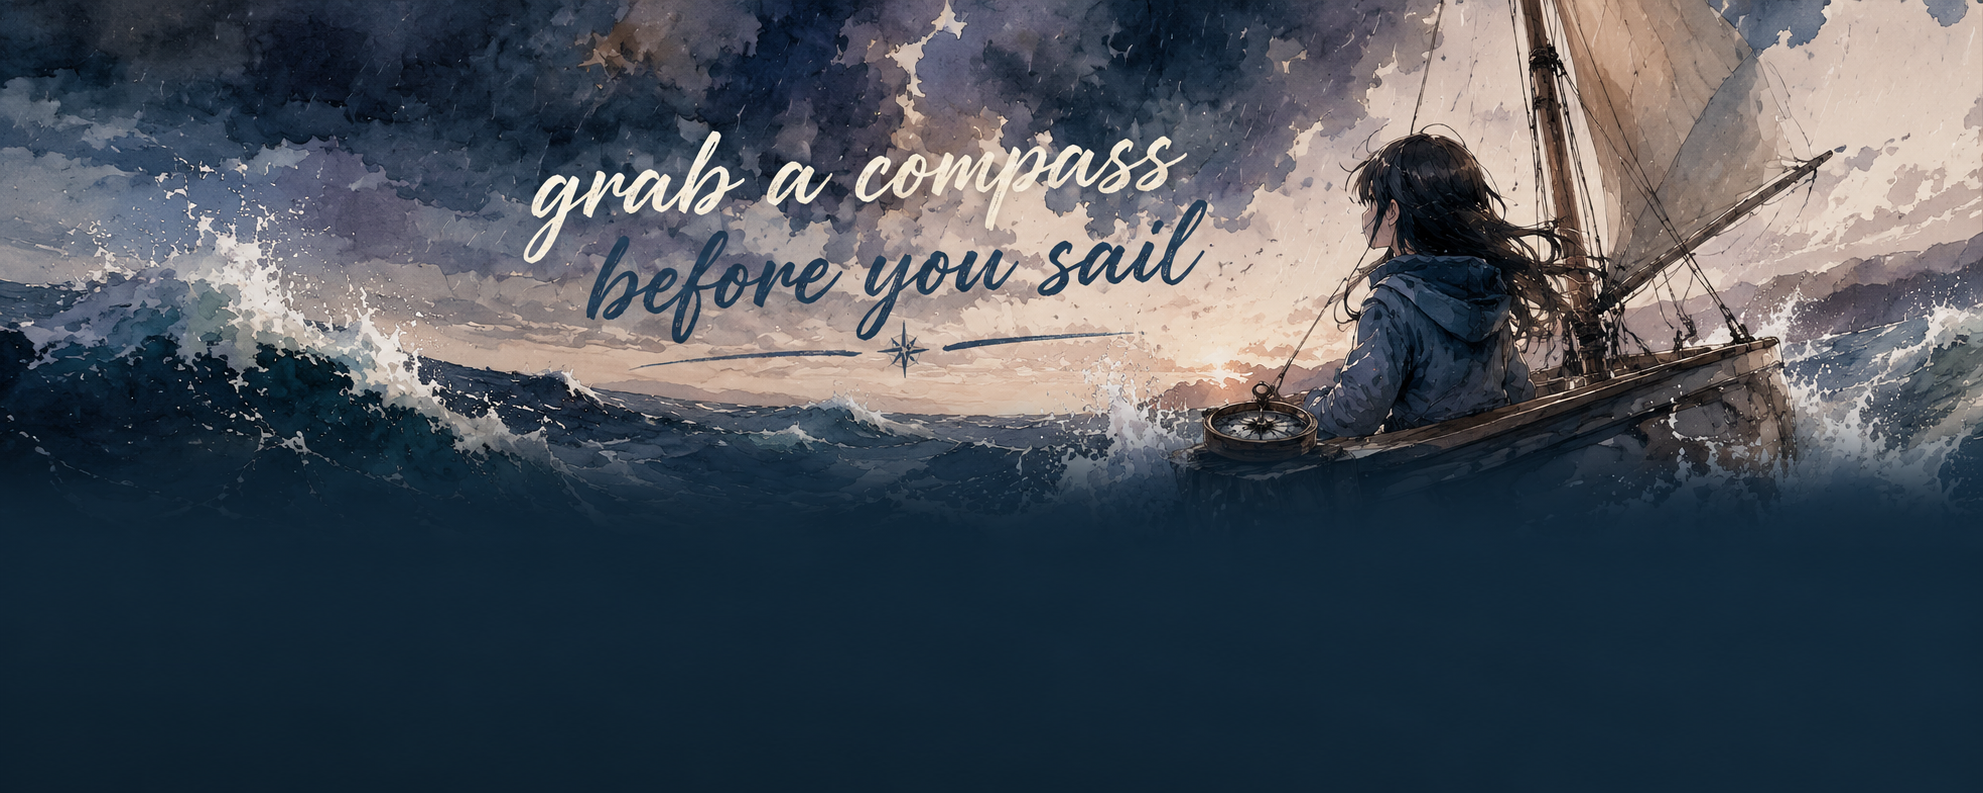
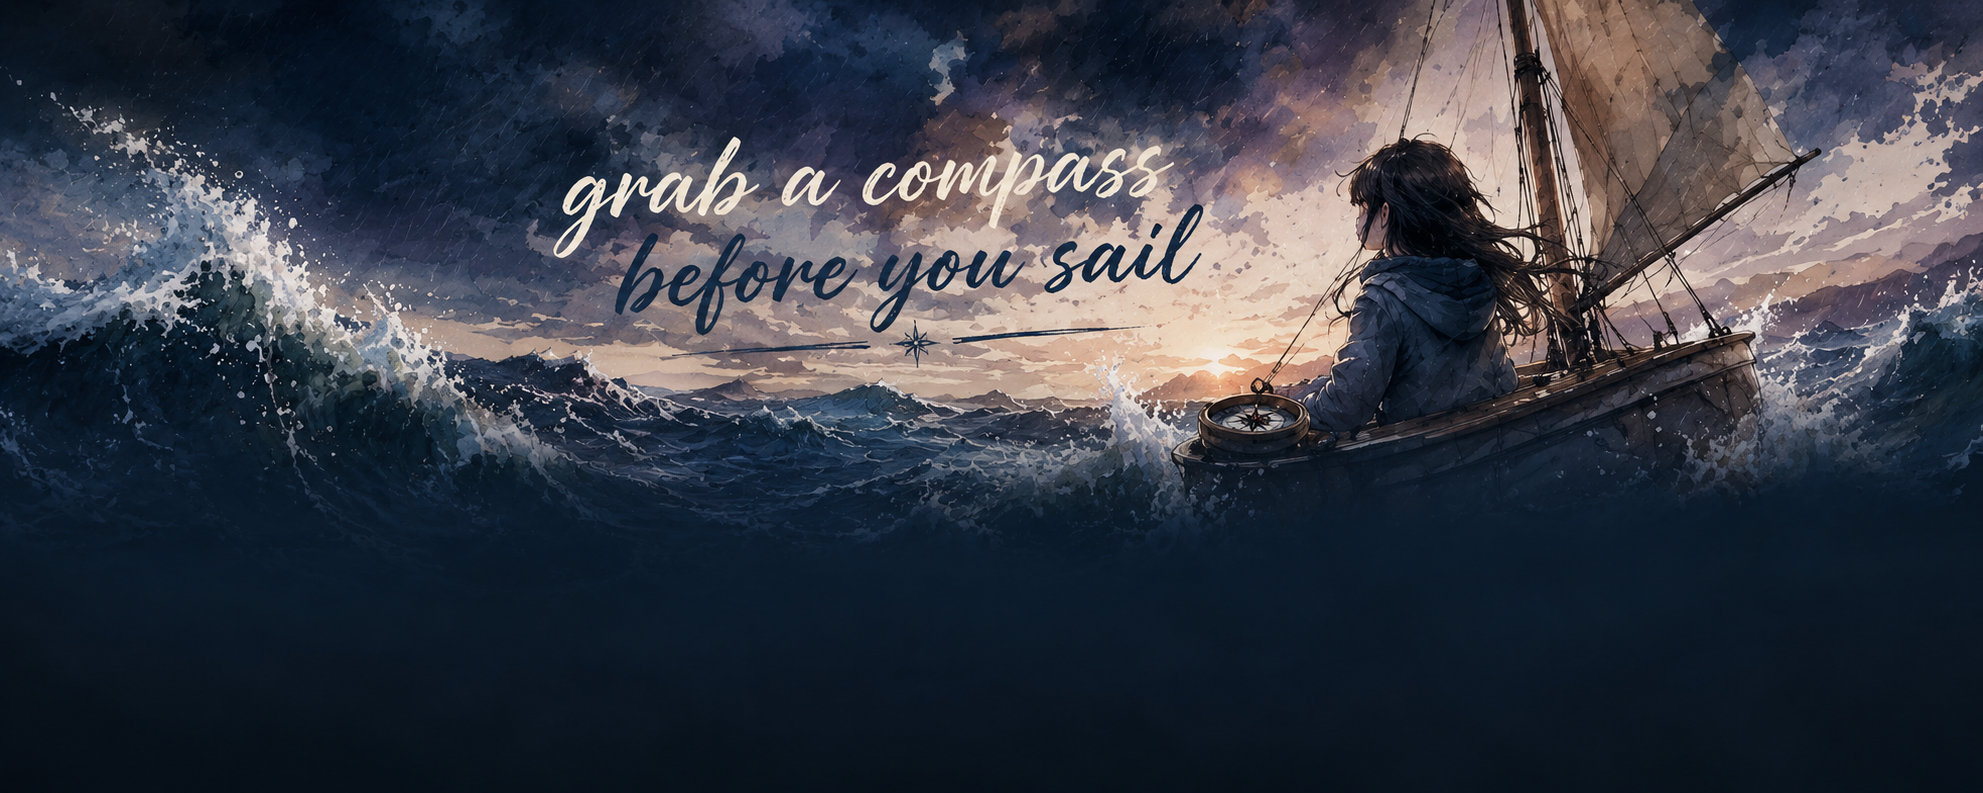
docs: refresh readme hero and pipeline diagram

diff --git a/README.md b/README.md
@@ -32,16 +32,14 @@ Why? Because you didn't measure the noise. High demand means nothing if the mark
 Impact Compass takes your idea and compiles a query bundle (problems, solutions, target audiences, and competitors). It then pulls live data from seven pillars of public evidence and runs an advanced logarithmic scoring algorithm. 
 
 ```mermaid
-flowchart TD
-  A["Idea brief JSON"] --> B["Query bundle compiler"]
-  B --> C["35 source adapters"]
-  C --> D["Public APIs: GitHub, Reddit, npm, Hacker News, Stack Exchange, Wikipedia, App Store"]
-  D --> E["Evidence normalizer"]
-  E --> F["Relevance filter: weak keyword match loses 60% signal"]
-  F --> G["Pillar scorers: demand, pain, momentum, activity, competition, channel fit, evidence quality"]
-  G --> H["Weighted score engine"]
-  H --> I["Red ocean saturation penalty"]
-  I --> J["Final score, confidence, interpretation, JSON report"]
+flowchart LR
+  A["Idea JSON"] --> B["Query bundle"]
+  B --> C["35 adapters"]
+  C --> D["GitHub / Reddit / npm / HN / Stack Exchange / Wiki / App Store"]
+  D --> E["Normalize + relevance filter"]
+  E --> F["7 pillar scores"]
+  F --> G["Weighted score + red-ocean penalty"]
+  G --> H["Score / confidence / verdict / JSON"]
 ```
 
 It measures:
